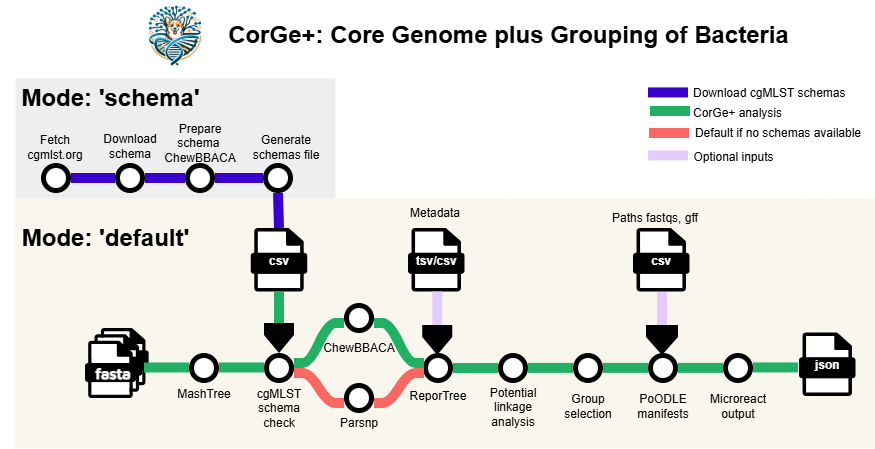
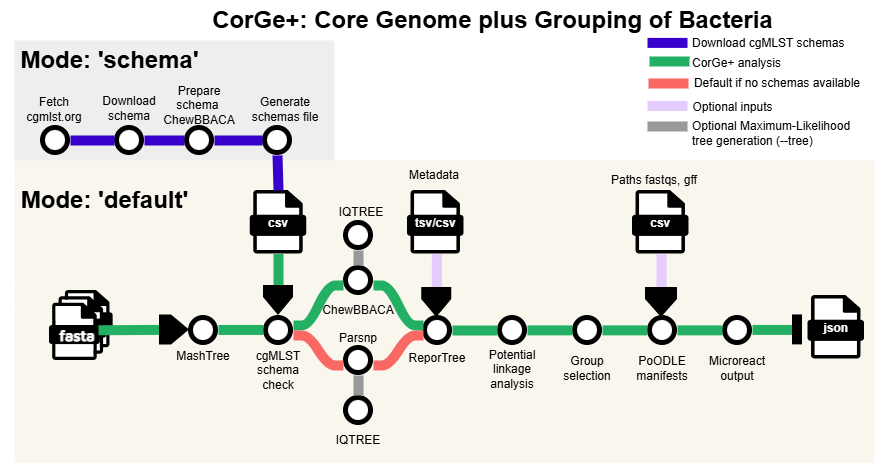
updating documentation

Changed region(s): [[0.0, 0.0, 0.9874, 0.9666], [0.0309, 0.4989, 0.216, 0.5612]]

diff --git a/README.md b/README.md
@@ -1,6 +1,6 @@
 <img src="docs/images/corge_logo.png" alt="CorGe Logo" width="100" align="right"/>
 
-# 🧬 CorGe+ — Core Genome plus **grouping** of bacteria
+# 🧬 CorGe+ — Core Genome plus grouping of bacteria
 
 [![Nextflow](https://img.shields.io/badge/nextflow%20DSL2-%E2%89%A522.10.1-23aa62.svg)](https://www.nextflow.io/)
 [![run with docker](https://img.shields.io/badge/run%20with-docker-0db7ed?labelColor=000000&logo=docker)](https://www.docker.com/)
@@ -9,7 +9,31 @@
 
 CorGe+ is a **Nextflow** pipeline designed for **bacterial genomic surveillance and linkage investigation**. It performs **core genome MLST (cgMLST)** or **core genome alignment** and then identifies potential linkages between samples and clusters isolates into **genomic context groups**.
 
-It’s portable, reproducible, and simple — whether you’re tracking an outbreak or monitoring genomic trends over time. More details [below](#-designed-for-bacterial-surveillance)
+
+## 🔍 Designed for bacterial surveillance
+
+CorGe+ was created to make **genomic epidemiology, routine surveillance, and outbreak screening both fast and accessible**. It helps you:
+
+* 🕒 **Track related isolates over time** and monitor emerging patterns.
+* 🧬 **Group genomes by allelic or SNP distance** using cgMLST or core-genome alignment.
+* 🔗 **Identify potential linkages** based on allelic distances (cgMLST) or SNP distances (Parsnp).
+* 📤 **Export clean, shareable outputs** (CSV tables + Microreact visualizations).
+* 🧩 **Feed selected genomic context groups** into the downstream pipeline [`PoODLE`](#-poodle-samplesheets) for high-quality SNP and pangenome analyses.
+
+When the first question is *“Are these isolates related?”*, CorGe+ gives you a fast answer.
+
+### Multi-species and incremental analysis
+
+CorGe+ can analyze **multiple species in a single run**.
+The output directory acts as a **growing surveillance database** — new samples are automatically compared with previous ones, and group nomenclature remains stable across batches.
+
+If you need to **analyze a batch independently** (e.g., without comparing to historical data), simply specify a **new `--outdir`** and include only the samples you want to compare in the manifest.
+
+---
+
+>[!WARNING]
+>**Disclaimer**: This pipeline is only for investigation and epidemiology use. *The data presented in this pipeline has not been validated or subjected to CLIA standards for diagnosing and treating disease. Relatedness by WGS should not replace epidemiological investigations for determining linkage.*
+
 
 ### ![CorGe flow](docs/images/corge_flow.png)
 
@@ -17,12 +41,11 @@ It’s portable, reproducible, and simple — whether you’re tracking an outbr
 - [Pipeline summary](#-pipeline-summary)
 - [Quick Start](#-quick-start)
 - [Parameters](#parameters)
-- [Designed for bacterial surveillance](#-designed-for-bacterial-surveillance)
-- [When to use what](#-when-to-use-what)
+- [Output overview](#-output-overview)
 - [Key files: Linkages & context groups](#-key-files-linkages--context-groups)
+- [When to use what](#-when-to-use-what)
 - [Best practices & caveats](#-best-practices--caveats)
 - [Troubleshooting](#-troubleshooting)
-- [Output overview](#-output-overview)
 - [Citations](#-citations)
 - [Credits & Community](#credits--community)
 - [License](#-license)
@@ -55,7 +78,7 @@ It’s portable, reproducible, and simple — whether you’re tracking an outbr
 > If using **Singularity** set `NXF_SINGULARITY_CACHEDIR` (or `singularity.cacheDir`) to reuse images later. For example: 
 > ```
 > export NXF_SINGULARITY_CACHEDIR="/path/to/singularity_cache"
-> ``````
+> ```
 
 ---
 
@@ -119,10 +142,10 @@ ISO4,/path/iso4.fasta,Acinetobacter baumannii
 
 ```bash
 nextflow run MI-Bioinformatics/CorGe \
+  -profile singularity \
   --input manifest.csv \
   --cgmlst_schemas cgmlst_schemas.csv \
-  --outdir corge \
-  -profile singularity
+  --outdir corge
 ```
 
 Default clustering thresholds: `15,20,40,150` (alleles for cgMLST or SNPs for Parsnp).  More details about the default thresholds [below](#-group-thresholds-allelic-or-snp-distance-cutoffs). Customizable via `--thresholds 1,10,100,1000`. Reference thresholds from different sources are available at [`reference_thresholds.rmd`](assets/reference_thresholds.rmd). 
@@ -131,11 +154,11 @@ Default clustering thresholds: `15,20,40,150` (alleles for cgMLST or SNPs for Pa
 
 ```bash
 nextflow run MI-Bioinformatics/CorGe \
+  -profile singularity \
   --input manifest.csv \
   --cgmlst_schemas cgmlst_schemas.csv \
   --outdir results \
-  --thresholds 1,10,100,1000 \
-  -profile singularity
+  --thresholds 1,10,100,1000
 ```
 
 ### Expert level
@@ -143,10 +166,12 @@ Using sample metadata and custom configuration:
 
 ```bash
 nextflow run MI-Bioinformatics/CorGe \
+  -profile singularity \
   --input manifest.csv \
   --cgmlst_schemas cgmlst_schemas.csv \
   --outdir /path/to/corge \
   --thresholds 5,10,20,30,150 \
+  --tree \
   --metadata full_lims_data.csv \
   --columns_summary_report st,specimen_source,specimen_type,patient_county,submitter_name,date,first_seq_date,last_seq_date,timespan_days \
   --metadata2report st \
@@ -154,9 +179,7 @@ nextflow run MI-Bioinformatics/CorGe \
   --phoenix_path /path/to/phx_output \
   --max_memory 160.GB \
   --max_cpus 24 \
-  --max_time 8.h \
-  -profile singularity
-
+  --max_time 8.h
 ```
 
 > [!TIP]
@@ -176,6 +199,7 @@ nextflow run MI-Bioinformatics/CorGe \
 | `--mode`           |     ✓    | `default`      | `default` to run core genome analysis with new isolates; `schema` for **schema-download workflow**; or `remove` to remove samples from database     |
 | `--schema_ids`     |     –    | –              | Comma-separated schema IDs (no spaces), required when `--mode schema` is used (e.g., s1,s20).                |
 | `--samples_to_remove`     |     –    | –              | CSV mapping samples to remove from database(`sample,species`). Required when `--mode remove` is used  |
+| `--tree`     |     –    | `false` | Build a maximum-likelihood phylogenetic tree (GTR+G4) from a DNA multiple-sequence alignment (MSA). By default, the pipeline outputs only distance-based trees (MashTree and MSTreeV2 from allele or SNP distances). Enabling this option requires substantially more computational time and resources. When a cgMLST schema is used, the MSA is derived from the cgMLST allelic profiles.    |
 
 
 ### ⚙️ **Execution Configuration**
@@ -218,82 +242,22 @@ More details about these options in [`ReporTree`](https://github.com/insapathoge
 
 ---
 
-## 🔍 Designed for bacterial surveillance
+## 📊 Output overview
 
-CorGe+ was created to make **genomic epidemiology, routine surveillance, and outbreak screening both fast and accessible**. It helps you:
+Results are structured by **species** inside `<outdir>/<Species>/`.
+Each folder includes:
 
-* 🕒 **Track related isolates over time** and monitor emerging patterns.
-* 🧬 **Group genomes by allelic or SNP distance** using cgMLST or core-genome alignment.
-* 🔗 **Identify potential linkages** based on allelic distances (cgMLST) or SNP distances (Parsnp).
-* 📤 **Export clean, shareable outputs** (CSV tables + Microreact visualizations).
-* 🧩 **Feed selected genomic context groups** into the downstream pipeline [`PoODLE`](#-poodle-samplesheets) for high-quality SNP and pangenome analyses.
+* **cgMLST** or **Parsnp** results
+* **Linkage analysis** CSVs
+* **Genomic context group** tables per threshold
+* **MashTree** files
+* **Tree** files (when `--tree` is used)
+* **Microreact** project file (`*.microreact`)
+* **ReporTree** distance and cluster files
+* **PoODLE** manifests
 
-When the first question is *“Are these isolates related?”*, CorGe+ gives you a fast answer.
 
-### Multi-species and incremental analysis
-
-CorGe+ can analyze **multiple species in a single run**.
-The output directory acts as a **growing surveillance database** — new samples are automatically compared with previous ones, and group nomenclature remains stable across batches.
-
-If you need to **analyze a batch independently** (e.g., without comparing to historical data), simply specify a **new `--outdir`** and include only the samples you want to compare in the manifest.
-
----
-
->[!WARNING]
->**Disclaimer**: This pipeline is only for investigation and epidemiology use. *The data presented in this pipeline has not been validated or subjected to CLIA standards for diagnosing and treating disease. Relatedness by WGS should not replace epidemiological investigations for determining linkage.*
-
-## 🧭 When to use what
-
-### **🔹 cgMLST (ChewBBACA)** — *preferred method*
-
-Used automatically when a cgMLST schema is available for the species.
-
-* Works with as few as **2 samples**.
-* Provides **stable, reference-free** allele calling (40–80% of the genome).
-
----
-
-### **🔹 Parsnp fallback** — *used when no cgMLST schema exists*
-
-Parsnp is triggered when a species lacks a schema.
-
-* Recommended: **≥5 samples** for meaningful alignments.
-* Minimum: **2 samples**, but expect longer runtimes and reduced SNP accuracy.
-* Assembly-based SNPs are often **inflated**, so treat Parsnp results as **screening** only. Apply **higher SNP thresholds** (e.g., ~150 SNPs) when evaluating potential linkages.
-* For downstream confirmation, use an hqSNP workflow (e.g., [`Snippy`](https://github.com/tseemann/snippy) and [`Gubbins`](https://github.com/nickjcroucher/gubbins)).
-
----
-
-### **🔹 Group thresholds (allelic or SNP distance cutoffs)**
-
-Thresholds determine **which samples are grouped together** for downstream high-resolution analysis like [**PoODLE**](https://github.com/MI-Bioinformatics/poodle) (hqSNPs, recombination filtering, pangenome comparisons).
-These groups are **not strict “clusters”**, since they can include contextual samples to maintain lineage-level resolution.
-
-**Practical guidance from surveillance experience:**
-
-* **15–20 alleles**
-
-  * Useful for species or STs that are *highly prevalent* and genetically tight
-    (e.g., *Acinetobacter baumannii* ST2, *Klebsiella pneumoniae* ST219).
-  * Helps separate closely related sub-lineages.
-
-* **40 alleles**
-
-  * Good general-purpose threshold to keep **linked + contextual** samples together
-    within the same broader lineage.
-
-* **150 alleles**
-
-  * Useful when a cluster has **too few samples** and you want to include more that are
-    still related at a lineage level but not necessarily linked.
-
-A meaningful group for downstream SNP-based analysis ideally contains **>4 samples**.
-If your group becomes too large, **lower the threshold** to retain only the most strongly related isolates.
-
----
-
-> [!TIP]
-> Use the [**Microreact visualization**](https://github.com/MI-Bioinformatics/CorGe/tree/development#-microreact-export) to explore the dataset and decide which thresholds best capture meaningful relationships for your species or lineage.
+Details about outputs can be found in [`output.md`](docs/output.md) and the outputs tree in [`corge_outputs.md`](docs/corge_outputs.md).
 
 ---
 
@@ -356,22 +320,82 @@ For each cluster, CorGe+ selects a reference genome based on the "best" assembly
 
 ### 🧬 Microreact export
 
-CorGe+ generates a `.microreact` file that brings together **two complementary genetic perspectives**:
+CorGe+ generates a `.microreact` file that brings together **complementary genetic perspectives**:
 
 * **Mashtree** — produces a k-mer–based distance tree that reflects overall genome composition, including accessory genes.
 * **Core-genome distance tree** — prepared by ReporTree with the MSTreeV2 method, it's useful for visualizing genetic relatedness among isolates.
+* **Maximum-Likelihood tree** — phylogenetic tree based on DNA sequence alignment, included when `--tree` is used.
 
-By integrating both views, Microreact provides an intuitive way to explore how samples group at the thresholds defined with `--thresholds`, and helps you decide which group threshold to use in downstream high-resolution analyses.
+Microreact provides an intuitive way to explore how samples group at the thresholds defined with `--thresholds`, and helps you decide which group threshold to use in downstream high-resolution analyses.
 
 To aid interpretation, Microreact also displays **heatmaps per threshold**, using the ReporTree **partition nomenclature**.
 Each partition corresponds to a hierarchical clustering level and includes the method, numeric threshold, and distance unit. For example, threshold **15** corresponds to the partition `single-15x1.0`.
 
 To visualize, upload the `.microreact` file to [`Microreact/upload`](https://microreact.org/upload)
 
+_Microreact example using default settings_
 ### ![Microreact example](docs/images/corge_microreact_example.png)
+
+_Microreact example using the `--tree` option_
+### ![Microreact example](docs/images/corge_microreact_example_ml.png)
 
 > [!TIP]  
 > You can also explore groups interactively by uploading the ReporTree files `.nwk` and `metadata_w_partitions.tsv` or `partitions.tsv` to [`GrapeTree`](https://github.com/achtman-lab/GrapeTree), [`SPREAD`](https://github.com/genpat-it/spread) or [`Auspice`](https://auspice.us/). These tools run entirely in your browser for quick and private visualization.
+
+---
+
+## 🧭 When to use what
+
+### **🔹 cgMLST (ChewBBACA)** — *preferred method*
+
+Used automatically when a cgMLST schema is available for the species.
+
+* Works with as few as **2 samples**.
+* Provides **stable, reference-free** allele calling (40–80% of the genome).
+
+---
+
+### **🔹 Parsnp fallback** — *used when no cgMLST schema exists*
+
+Parsnp is triggered when a species lacks a schema.
+
+* Recommended: **≥5 samples** for meaningful alignments.
+* Minimum: **2 samples**, but expect longer runtimes and reduced SNP accuracy.
+* Assembly-based SNPs are often **inflated**, so treat Parsnp results as **screening** only. Apply **higher SNP thresholds** (e.g., ~150 SNPs) when evaluating potential linkages.
+* For downstream confirmation, use an hqSNP workflow (e.g., [`Snippy`](https://github.com/tseemann/snippy) and [`Gubbins`](https://github.com/nickjcroucher/gubbins)).
+
+---
+
+### **🔹 Group thresholds (allelic or SNP distance cutoffs)**
+
+Thresholds determine **which samples are grouped together** for downstream high-resolution analysis like [**PoODLE**](https://github.com/MI-Bioinformatics/poodle) (hqSNPs, recombination filtering, pangenome comparisons).
+These groups are **not strict “clusters”**, since they can include contextual samples to maintain lineage-level resolution.
+
+**Practical guidance from surveillance experience:**
+
+* **15–20 alleles**
+
+  * Useful for species or STs that are *highly prevalent* and genetically tight
+    (e.g., *Acinetobacter baumannii* ST2, *Klebsiella pneumoniae* ST219).
+  * Helps separate closely related sub-lineages.
+
+* **40 alleles**
+
+  * Good general-purpose threshold to keep **linked + contextual** samples together
+    within the same broader lineage.
+
+* **150 alleles**
+
+  * Useful when a cluster has **too few samples** and you want to include more that are
+    still related at a lineage level but not necessarily linked.
+
+A meaningful group for downstream SNP-based analysis ideally contains **>4 samples**.
+If your group becomes too large, **lower the threshold** to retain only the most strongly related isolates.
+
+---
+
+> [!TIP]
+> Use the [**Microreact visualization**](#-microreact-export) to explore the dataset and decide which thresholds best capture meaningful relationships for your species or lineage.
 
 ---
 
@@ -430,24 +454,6 @@ To visualize, upload the `.microreact` file to [`Microreact/upload`](https://mic
 
 ---
 
-## 📊 Output overview
-
-Results are structured by **species** inside `<outdir>/<Species>/`.
-Each folder includes:
-
-* **cgMLST** or **Parsnp** results
-* **Linkage analysis** CSVs
-* **Genomic context group** tables per threshold
-* **MashTree** files
-* **Microreact** project file (`*.microreact`)
-* **ReporTree** distance and cluster files
-* **PoODLE** manifests
-
-
-Details about outputs can be found in [`output.md`](docs/output.md) and the outputs tree in [`corge_outputs.md`](docs/corge_outputs.md).
-
----
-
 ## 💬 Citations
 
 If you use CorGe+, please cite:
@@ -458,6 +464,8 @@ If you use CorGe+, please cite:
 * Parsnp — core alignment
 * Microreact — visualization platform
 * cgmlst.org —  cgMLST server
+* IQTREE —  phylogeny (when `--tree` is used)
+* SNP-sites — constant sites calculation (when `--tree` is used)
 * nf-core — bioinformatics pipeline framework
 * NextFlow — computational workflow
 * Software packaging/containerization tools

diff --git a/CITATIONS.md b/CITATIONS.md
@@ -34,6 +34,12 @@
 
   > Ridom GmbH. *cgmlst.org Nomenclature Server.* Accessed 2025.
 
+- [IQ-TREE](https://www.iqtree.org/)
+  > Minh, Bui Quang, Heiko A. Schmidt, Olga Chernomor, Dominik Schrempf, Michael D. Woodhams, Arndt Von Haeseler, and Robert Lanfear. "IQ-TREE 2: new models and efficient methods for phylogenetic inference in the genomic era." Molecular biology and evolution 37, no. 5 (2020): 1530-1534.
+
+- [SNP-sites](https://www.iqtree.org/)
+  > Andrew J. Page, Ben Taylor, Aidan J. Delaney, Jorge Soares, Torsten Seemann, Jacqueline A. Keane, Simon R. Harris. "SNP-sites: rapid efficient extraction of SNPs from multi-FASTA alignments", Microbial Genomics 2(4), (2016)
+
 - [MultiQC](https://pubmed.ncbi.nlm.nih.gov/27312411/)
   > Ewels P, Magnusson M, Lundin S, Käller M. MultiQC: summarize analysis results for multiple tools and samples in a single report. Bioinformatics. 2016 Oct 1;32(19):3047-8. doi: 10.1093/bioinformatics/btw354. Epub 2016 Jun 16. PubMed PMID: 27312411; PubMed Central PMCID: PMC5039924.
 ---